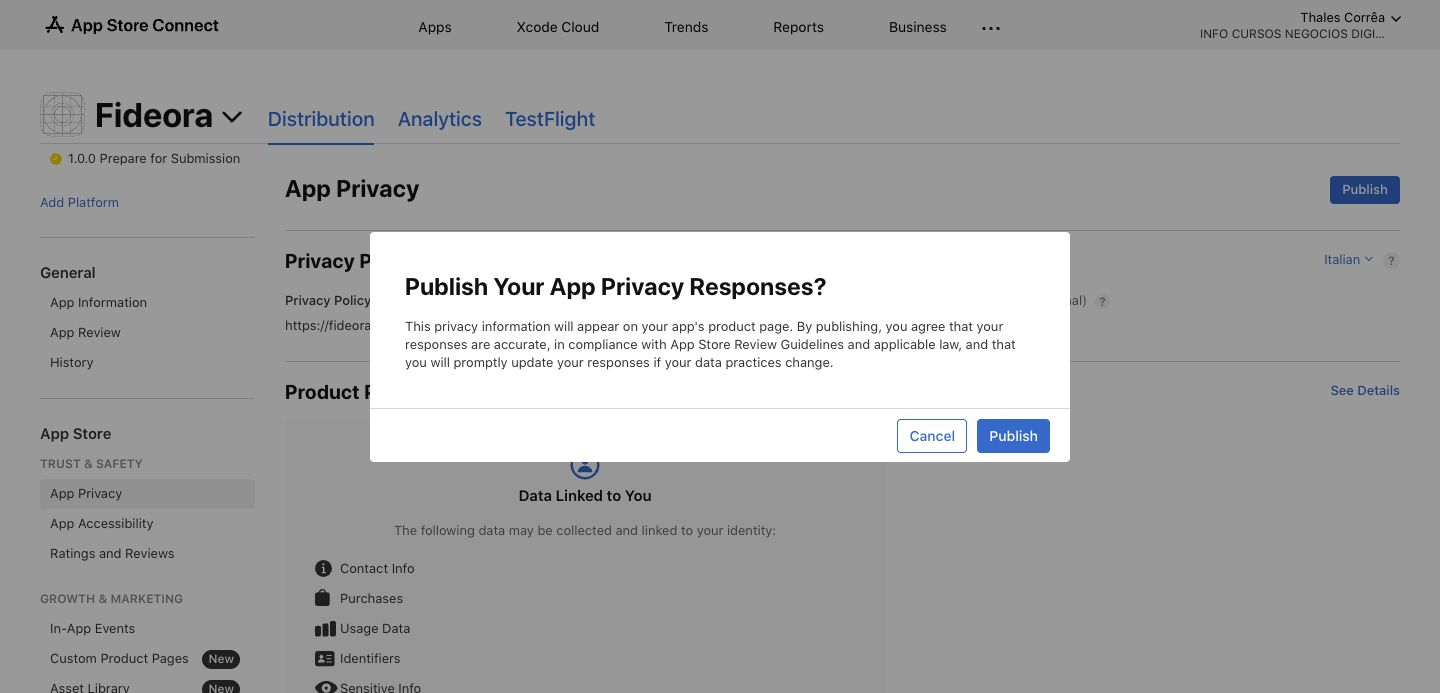
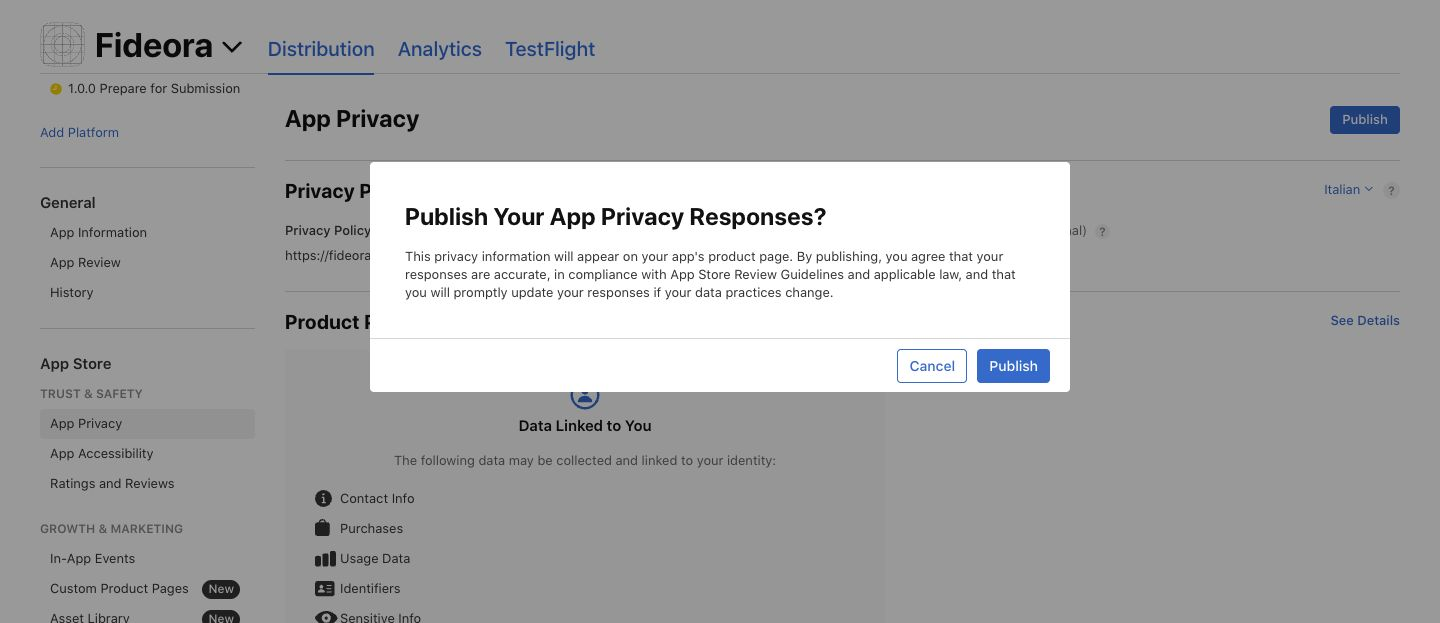
Record validated bilingual native screenshots and the browser upload permission blocker

diff --git a/docs/APP_STORE_FINAL_REVIEW.md b/docs/APP_STORE_FINAL_REVIEW.md
@@ -60,3 +60,17 @@ Products: com.fideora.premium.monthly and com.fideora.premium.annual.
 Metadata evidence: ![Saved Italian description](assets/fideora-store-metadata.jpg).
 
 Sources consulted: https://www.revenuecat.com/docs/platform-resources/apple-platform-resources/apple-app-privacy and https://developer.apple.com/help/app-store-connect/manage-app-information/manage-app-privacy .
+
+## Final preparation checkpoint — 2026-10-22 UTC
+
+- Native iPhone capture job passed: https://github.com/talescor-spec/mappa-cattolico/actions/runs/39696755771/job/119555892537 . Twelve native PNGs were produced at 1206 × 2622; four marketing screens per language were selected after visual inspection.
+- Native iPad capture passed after allowing enough time for cold WebKit initialization: https://github.com/talescor-spec/mappa-cattolico/actions/runs/39700331699 . Eight native PNGs were produced at 2064 × 2752, covering Today, Bible, Prayer and Notebook in both languages. All were inspected visually.
+- The deliverable contains 16 marketing screenshots and one Portuguese native paywall screenshot for subscription review, plus a README. The review paywall shows the simulator's US storefront prices; marketing images contain no prices.
+- Captures use the same application source as tested build 5. Only capture automation and review documentation changed on the assets branch; no replacement TestFlight binary was uploaded.
+- All 17 PNGs and the complete ZIP were saved successfully as owner deliverables. Their private file identifiers are intentionally omitted here.
+- Apple version 1.0.0 still has the tested build 5 selected. Italian/Portuguese descriptions and reviewer notes are saved. Both subscription products have appropriate reviewer notes saved.
+- App Privacy policy URLs were checked in both localizations. The declaration remains unpublished, pending the owner's accuracy attestation.
+- App Store screenshot upload was attempted through the documented file chooser. The chooser supports multiple images, but Chrome blocked setFiles because the ChatGPT extension needs "Allow access to file URLs" enabled. No screenshots were uploaded. User action is required before retrying; do not report the store page as complete until the gallery counts and both subscription review screenshots are verified after upload.
+- No App Review submission or public release has been performed. Remaining gates: browser file access and asset upload; privacy publication; assembling the first app/subscription review submission.
+
+The user-facing browser instructions for this blocker are supplied by the control-browser runtime's Chromium file-upload troubleshooting guide. This is a technical permission requirement; it is separate from the owner's App Privacy accuracy attestation.
